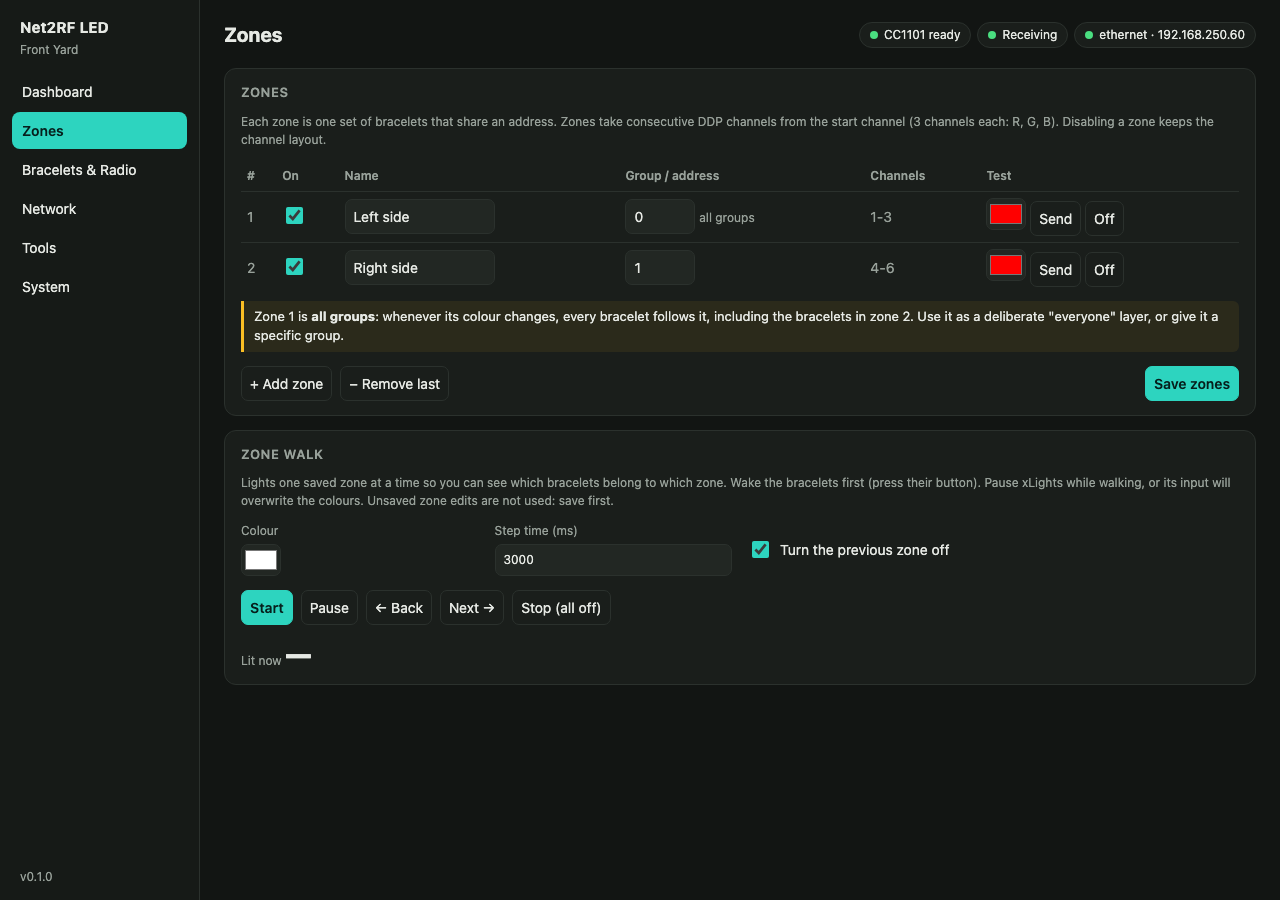
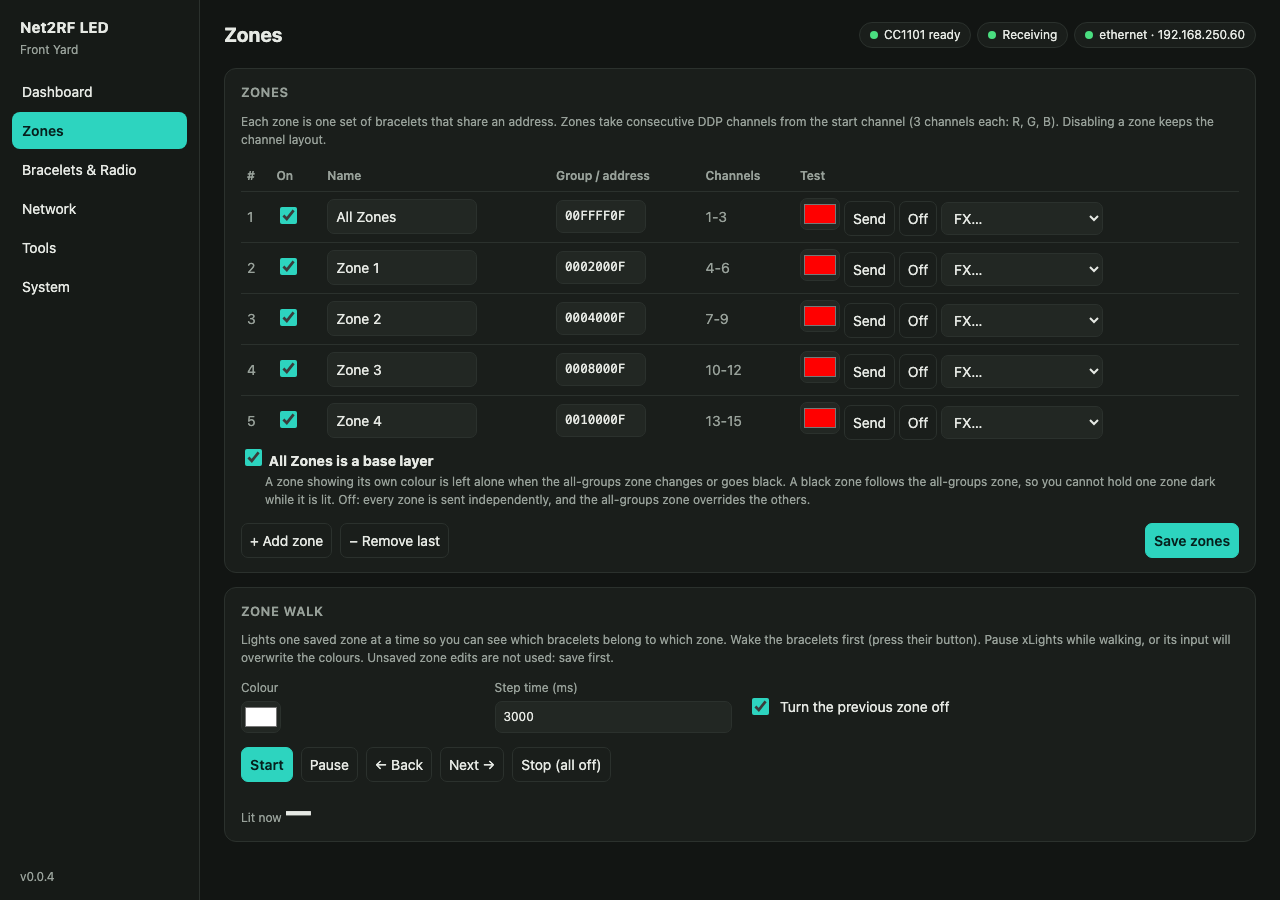
Docs: regenerate web UI screenshots; mock server shows the default zones
- dashboard, zones, output and tools screenshots retaken from the mock server
  (memory and flash bars, radio shutdown, base layer option); new system.png.
  The zones, system and dashboard images are now referenced from the guides.
- Mock server: protocol 0 with All Zones + Zone 1-4 and a base-layer scene;
  MOCK_UPDATE=1 pretends a newer release exists.
- xLights helper text: upload sets the zone count and input (not colour
  order), and points at the ready-made models.

diff --git a/web/index.html b/web/index.html
@@ -571,6 +571,7 @@ function xlights(){if(!C||!S)return;const a=C.app,w={dmx:4,vendor:5}[a.bracelets
   const pal=a.bracelets.protocol==0?'\nProtocol 0 bracelets have 10 colours; other colours snap to the nearest.':'';
   let models;
   if(w===3){models=`Option A: one model for the whole controller
+  Ready-made: import Net2RF_All_plus_4.xmodel or Net2RF_All_plus_15.xmodel (tools/xlights in the repo), or build:
   Single Line, 1 string x ${n} node${n>1?'s':''}, String Type "${a.bracelets.color_order} Nodes", start channel ${first}
   (node 1 = ${esc(a.zones[0].name)}${n>1?', node 2 = '+esc(a.zones[1].name):''}${n>2?', ...':''})
 
@@ -598,7 +599,7 @@ FX channel: 0-19 follow RGB, 20-39 off, 40-59 / 60-79 / 80-99 built-in effects A
 ${ctl.join('\n or\n')||'  (no input protocol enabled!)'}
   Vendor: Net2RF   Model: Net2RF LED   (after copying net2rf.xcontroller into xLights, see tools/xlights in the repo)
     or: WLED / WLED / Generic ESP32  (works as shipped; it shows 8 ports, use port 1 only)
-  Upload Output / Upload Input set the zone count, colour order and input here. Ready-made models: tools/xlights
+  Upload Output / Upload Input set the zone count and the input here.
 
 Models (Layout tab), all assigned to this controller (port 1)
 ${models}${pal}

diff --git a/tools/mock_server.py b/tools/mock_server.py
@@ -16,6 +16,9 @@ ROOT = os.path.dirname(os.path.dirname(os.path.abspath(__file__)))
 T0 = time.time()
 LOG = []
 
+# MOCK_UPDATE=1 pretends a newer release exists (dashboard notice, Install button).
+FW = "0.0.4"
+LATEST = "v0.0.5" if os.environ.get("MOCK_UPDATE") else "v" + FW
 GH_JOB = {"tag": "", "started": 0.0}
 
 
@@ -33,16 +36,19 @@ def gh_job():
 APP = {
     "name": "Front Yard",
     "output_enabled": True,
-    "bracelets": {"protocol": 1, "mode": "pixel", "color_order": "RGB", "base_layer": False},
+    "bracelets": {"protocol": 0, "mode": "pixel", "color_order": "RGB", "base_layer": True},
     "radio": {"type": "cc1101", "tx_power": 10, "freq_p0": 433889000, "freq_p1": 433920000, "repeats": 3,
               "off_threshold": 16, "refresh_ms": 0, "tx_jitter_ms": 0,
               "lbt_enabled": True, "lbt_threshold_dbm": -75, "power": True},
     "update": {"repo": "mikeneiderhauser/net2rf-led", "auto_check": True, "check_hours": 12},
     "input": {"ddp_enabled": True, "ddp_port": 4048, "e131_enabled": False, "e131_universe": 1,
               "e131_multicast": True, "start_channel": 1, "timeout_s": 300},
-    "zones": [
-        {"enabled": True, "name": "Left side", "addr": "00FF", "start": 1},
-        {"enabled": True, "name": "Right side", "addr": "01FF", "start": 4},
+    "zones": [  # the firmware's defaults: every group, then groups 1-4
+        {"enabled": True, "name": "All Zones", "addr": "00FFFF0F", "start": 1},
+        {"enabled": True, "name": "Zone 1", "addr": "0002000F", "start": 4},
+        {"enabled": True, "name": "Zone 2", "addr": "0004000F", "start": 7},
+        {"enabled": True, "name": "Zone 3", "addr": "0008000F", "start": 10},
+        {"enabled": True, "name": "Zone 4", "addr": "0010000F", "start": 13},
     ],
 }
 NET = {"hostname": "net2rf-3f2a", "eth_enabled": True, "wifi_ssid": "", "wifi_pass_set": False, "dhcp": True,
@@ -59,26 +65,54 @@ def p1_packet(addr, rgb):
     return "".join(f"{x:02X}" for x in b)
 
 
+P0_CODES = {"FF0000": "0100", "00FF00": "0101", "0000FF": "0102", "FFFFFF": "0104", "000000": "00AA"}
+
+
+def p0_packet(addr, rgb):
+    """Protocol 0 packet: address, command for one of the palette colours (or off), checksum."""
+    b = bytes.fromhex(addr + P0_CODES.get(rgb, "0104"))
+    return (b + bytes([sum(b) & 0xFF])).hex().upper()
+
+
+def p0_scene():
+    """A base-layer scene: All Zones red, Zone 2 blue and Zone 3 green on top, the others following."""
+    own = ["FF0000", "000000", "0000FF", "00FF00", "000000"]
+    zs = APP["zones"]
+    rgbs = [own[i] if i < len(own) else "000000" for i in range(len(zs))]
+    if not APP["bracelets"].get("base_layer") or not zs or zs[0]["addr"][2:6] != "FFFF":
+        return [(rgb, p0_packet(z["addr"], rgb)) for z, rgb in zip(zs, rgbs)]
+    mask = 0xFFFF
+    out = []
+    for z, rgb in list(zip(zs, rgbs))[1:]:
+        if rgb not in ("000000", rgbs[0]):
+            mask &= ~int(z["addr"][2:6], 16)
+            out.append((rgb, p0_packet(z["addr"], rgb)))
+        else:
+            out.append((rgb, p0_packet(z["addr"], rgbs[0])))  # follows the base
+    return [(rgbs[0], p0_packet(f"00{mask:04X}0F", rgbs[0]))] + out
+
+
 def status():
     up = time.time() - T0
     STATS["packets"] += 40
     STATS["frames"] += 40
     colors = ["FF0000", "00FF00", "0000FF", "FFFFFF"]
+    scene = p0_scene() if APP["bracelets"]["protocol"] == 0 else None
     zones = []
     for i, _ in enumerate(APP["zones"]):
-        rgb = colors[(int(up / 2) + i) % 4]
-        z = {"rgb": rgb, "fx": 0, "packet": p1_packet(APP["zones"][i]["addr"], rgb) if APP["bracelets"]["protocol"] else "00FFFF0F01000E",
+        rgb = scene[i][0] if scene else colors[(int(up / 2) + i) % 4]
+        z = {"rgb": rgb, "fx": 0, "packet": scene[i][1] if scene else p1_packet(APP["zones"][i]["addr"], rgb),
              "tx": 120 + i, "tx_age_ms": random.randint(50, 900)}
         if APP["bracelets"]["mode"] == "vendor":
             z.update(gated=(i == 1), group=i)
         zones.append(z)
     return {
-        "device": {"firmware": "0.1.0", "built": "Sep 28 2026 09:00:00", "uptime_s": int(up) + 3600,
+        "device": {"firmware": FW, "built": "Sep 28 2026 09:00:00", "uptime_s": int(up) + 3600,
                    "free_heap": 182344, "min_free_heap": 160112, "heap_bytes": 327680, "firmware_bytes": 1471297, "firmware_slot_bytes": 1966080, "chip": "ESP32-D0WD-V3", "chip_rev": 3,
                    "reset_reason": "power on", "display": True, "suffix": "3F2A", "name": APP["name"],
                    "auth": AUTH["enabled"], "update_pending": False, "update_rolled_back": False, "update_job": gh_job(),
                    "update_check": {"auto_check": APP["update"]["auto_check"], "check_hours": APP["update"]["check_hours"],
-                                    "checking": False, "latest": "v0.2.0", "available": True, "checked_ago_s": 840},
+                                    "checking": False, "latest": LATEST, "available": LATEST != "v" + FW, "checked_ago_s": 840},
                    "display_info": {"present": False, "type": "ssd1306", "sda_pin": 5, "scl_pin": 17}},
         "network": {"interface": "ethernet", "ip": "192.168.250.60", "hostname": NET["hostname"], "dhcp": NET["dhcp"],
                     "ethernet": {"enabled": True, "link": True, "mac": "A8:03:2A:11:3F:2A", "speed": 100,
@@ -136,18 +170,18 @@ class Handler(BaseHTTPRequestHandler):
                 return {"radio": radio, "input": inp, "output_enabled": out, "test": test, "zones": zones,
                         "uptime_s": up}
             return self.send(200, {"running": False, "alias": "net2rf.local", "alias_claimed": True, "controllers": [
-                {"name": APP["name"], "hostname": NET["hostname"], "ip": "192.168.250.60", "firmware": "0.1.0",
+                {"name": APP["name"], "hostname": NET["hostname"], "ip": "192.168.250.60", "firmware": FW,
                  "id": "3F2A", "self": True, "online": True, "last_seen_ms": 0, "via": ["self"], "state": st()},
-                {"name": "Back Yard", "hostname": "net2rf-81c4", "ip": "192.168.250.61", "firmware": "0.1.0",
+                {"name": "Back Yard", "hostname": "net2rf-81c4", "ip": "192.168.250.61", "firmware": FW,
                  "id": "81C4", "self": False, "online": True, "last_seen_ms": 1800, "via": ["udp", "mdns"],
                  "state": st(inp="idle", out=False)},
-                {"name": "Porch", "hostname": "net2rf-90aa", "ip": "192.168.250.62", "firmware": "0.1.0",
+                {"name": "Porch", "hostname": "net2rf-90aa", "ip": "192.168.250.62", "firmware": FW,
                  "id": "90AA", "self": False, "online": True, "last_seen_ms": 4200, "via": ["udp"],
                  "state": st(radio="not_detected", inp="none", test=True, zones=1)},
-                {"name": "Garage", "hostname": "net2rf-a1b2", "ip": "192.168.250.63", "firmware": "0.1.0",
+                {"name": "Garage", "hostname": "net2rf-a1b2", "ip": "192.168.250.63", "firmware": FW,
                  "id": "A1B2", "self": False, "online": False, "last_seen_ms": 185000, "via": ["udp", "mdns"],
                  "state": st(inp="timed_out")},
-                {"name": "Old Firmware", "hostname": "net2rf-c3d4", "ip": "192.168.250.64", "firmware": "0.0.9",
+                {"name": "Old Firmware", "hostname": "net2rf-c3d4", "ip": "192.168.250.64", "firmware": "0.0.2",
                  "id": "C3D4", "self": False, "online": False, "last_seen_ms": 30000, "via": ["mdns"]}]})
         if path == "/api/flash":
             return self.send(200, {"flash_bytes": 4194304, "partitions": [

diff --git a/docs/USAGE.md b/docs/USAGE.md
@@ -54,6 +54,8 @@ For a show, give the controller a **static IP** or a DHCP reservation, so xLight
 
 The pill row at the top of every page shows the radio, input and network state at a glance.
 
+![Dashboard](images/dashboard.png)
+
 ### Controlling output
 
 - **Test mode** overrides the show input for every enabled zone until it's switched off. Use it to check range
@@ -129,6 +131,8 @@ controller reboots.
   for the manual way.
 - **Upload a file:** choose `net2rf-led-<version>.bin` from the [latest release](https://github.com/mikeneiderhauser/net2rf-led/releases/latest) (or
   `firmware.bin` if you built it), not the `.factory.bin` used for the first flash.
+
+![System page: firmware version, free memory and flash, and the update card](images/system.png)
 
 **Release source** on the same card sets which GitHub repository is checked (`owner/name`, default
 `mikeneiderhauser/net2rf-led`). Change it only if you run firmware from a fork.

diff --git a/docs/SETUP.md b/docs/SETUP.md
@@ -85,6 +85,8 @@ What to know:
 - **Protocol 0 only.** Protocol 1 addresses one group or all of them and can't leave groups out.
 - Zones other than All Zones shouldn't overlap each other (two zones containing the same group).
 
+![Zones page: All Zones and Zone 1 to 4, with the base layer option ticked](images/zones.png)
+
 ### Protocol 1 (LedGiftSupplier)
 
 Every bracelet belongs to a **group**, and group **0** reaches all of them. Find each bracelet's group with **Tools →
